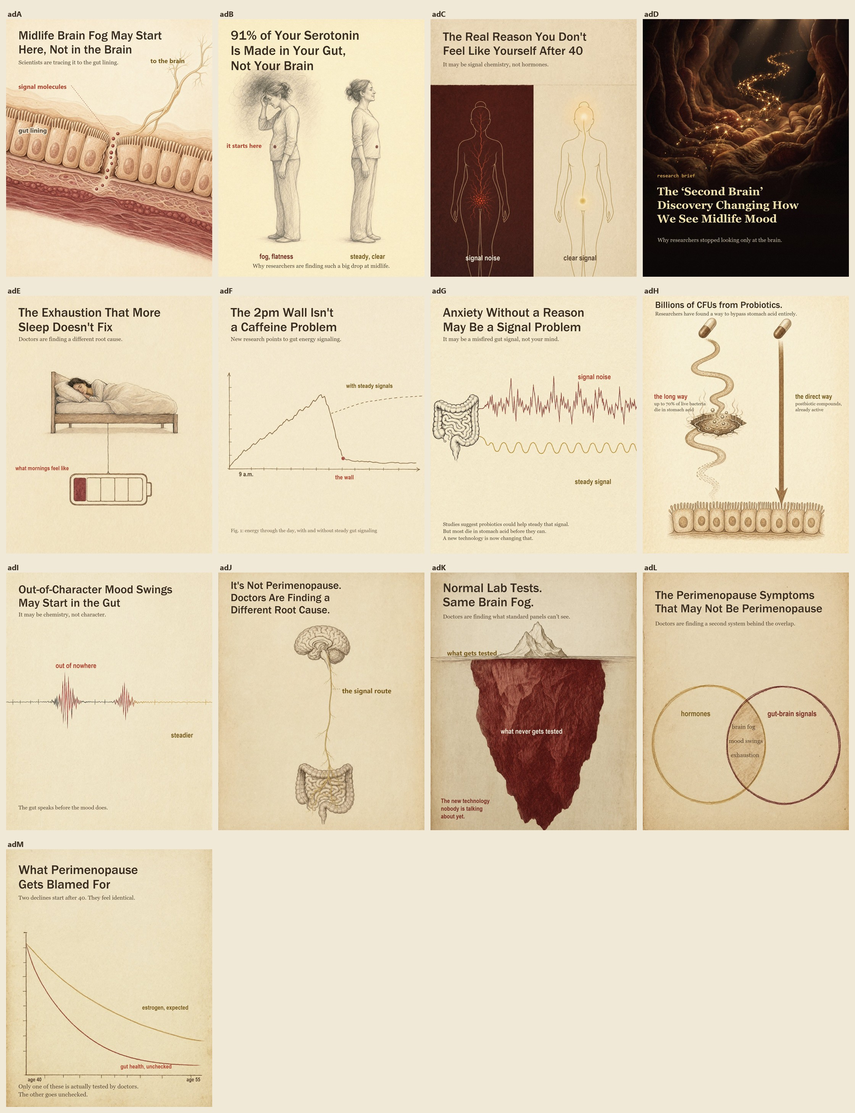
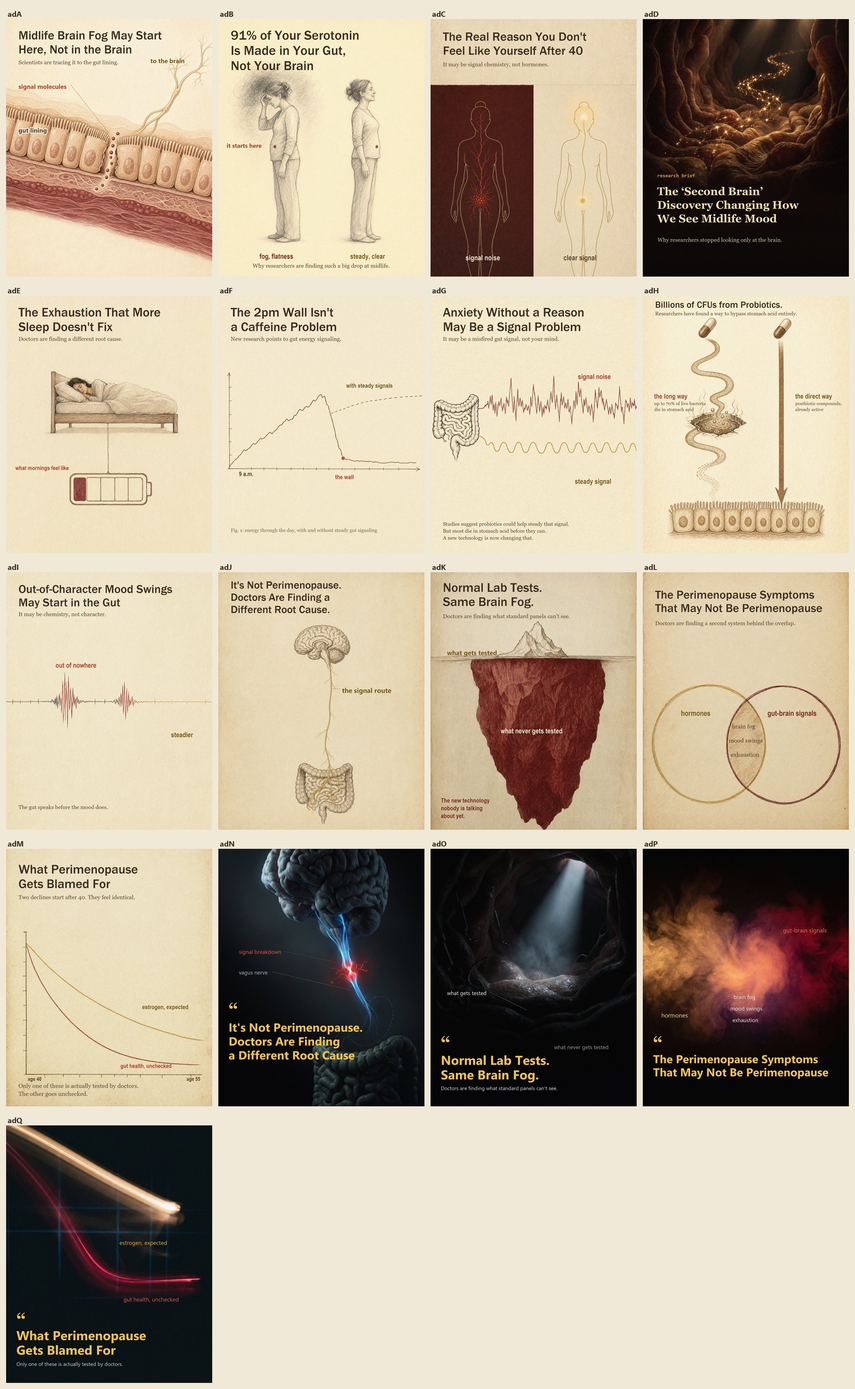
feat(sk-bold): wave 4 — dark cinematic perimenopause set (adN-adQ)
Operator reference style: black bg, glowing anatomy, thin dashed
labels, gold quote + bold gold sans headline. adN recreates the
reference (broken vagus signal) with the model line; adO searchlight
cavern for Normal Labs; adP colliding gold/crimson mists for the
symptom overlap; adQ light-trail chart for blamed-for. NB Pro plates.
Same headlines as the paper set for a style A/B.

diff --git a/clients/secondkind-bold/static-ads/mechanism-infographic-2026-07/copy-notes.md b/clients/secondkind-bold/static-ads/mechanism-infographic-2026-07/copy-notes.md
@@ -74,6 +74,25 @@ Wave-3 primary text first lines:
 - L: Some symptoms blamed on perimenopause may belong to a different system.
 - M: Two declines start after 40. Only one is on the standard panel.
 
+## Wave 4 (adN-adQ): dark cinematic perimenopause set
+
+Operator supplied a dark cinematic reference (black bg, glowing anatomy, thin dashed
+labels, gold quote-mark + bold gold sans headline bottom-left) and asked for the
+perimenopause angles restyled to match. Plates on Nano Banana Pro (photoreal 3D-render
+look), 3:4 cropped to 4:5, deai pass. Text treatment: gold #F2C24E Segoe UI Bold
+headline + Georgia quote glyph, thin sans_reg labels (red #E4573F, grey #AEB4BC),
+scrim where the plate needs it.
+
+| Ad | Headline | Visual |
+|---|---|---|
+| N | It's Not Perimenopause. Doctors Are Finding a Different Root Cause | reference recreation: dark brain, electric blue vagus bundle snapping in a red rupture, dashed ghost lines to dark intestine; labels signal breakdown / vagus nerve |
+| O | Normal Lab Tests. Same Brain Fog. | dark gut cavern, one clinical light beam illuminating a small patch; labels what gets tested (lit) / what never gets tested (darkness) |
+| P | The Perimenopause Symptoms That May Not Be Perimenopause | gold and crimson mist clouds colliding, overlap glowing; hormones / gut-brain signals; symptoms in the overlap |
+| Q | What Perimenopause Gets Blamed For | light-painting chart: gold trail declining gently, red plunging; estrogen, expected / gut health, unchecked; deck "Only one of these is actually tested by doctors." |
+
+Same headlines as the paper set = style A/B test on identical angles (J vs N, K vs O,
+L vs P, M vs Q).
+
 ## Suggested primary text (shared base, tune per ad)
 
 Same register as on-image: headline-y curiosity, no second-person storytelling.
